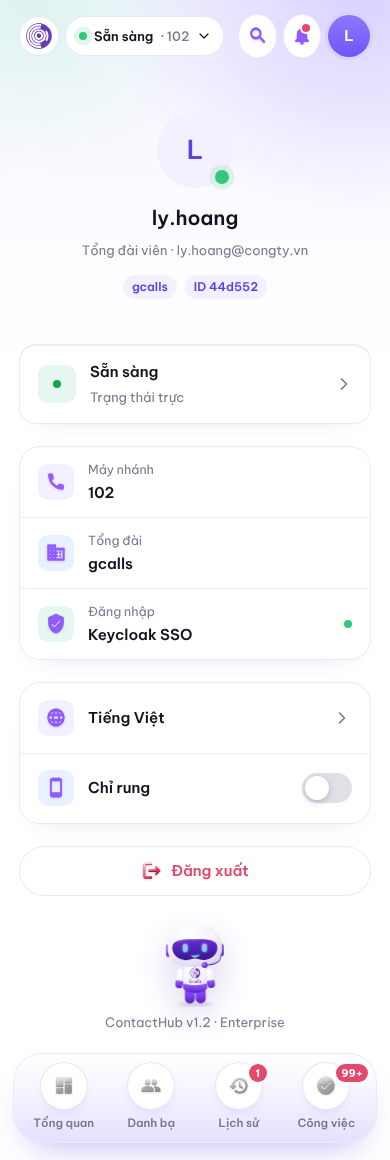
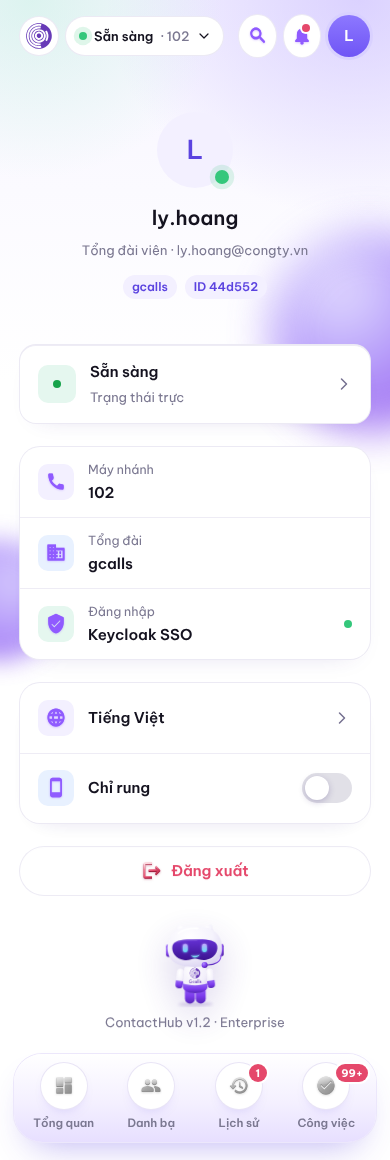
Bản sáng: thêm quả cầu tím phía sau, blur gấp 3 để tan thành gradient
Claude-Session: https://claude.ai/code/session_01UEoceJJYZjHjQck4sgHN5P

Changed region(s): [[0.6462, 0.1862, 1.0, 0.4034], [0.0, 0.4345, 0.0923, 0.5897]]

diff --git a/prototype/assets/contacthub.css b/prototype/assets/contacthub.css
@@ -979,7 +979,13 @@
   radial-gradient(70% 22% at 8% 0%,rgba(198,242,226,.55),transparent 70%),
   radial-gradient(90% 26% at 92% 0%,rgba(196,181,255,.55),transparent 72%),
   linear-gradient(180deg,#F7F5FF 0%,#fff 380px)}
-.app.lt .wall::before,.app.lt .wall::after,.app.lt .wall i{display:none!important}
+.app.lt .wall::before,.app.lt .wall::after,.app.lt .wall .b1,.app.lt .wall .b4,.app.lt .wall .b5{display:none!important}
+/* quả cầu tím phía sau, blur x3 để tan thành gradient */
+.app.lt .wall .b2,.app.lt .wall .b3{display:block!important;position:absolute;border-radius:50%!important;animation:none!important;transform:none!important;box-shadow:none!important;right:auto;bottom:auto}
+.app.lt .wall .b2{left:270px!important;top:230px!important;width:200px!important;height:200px!important;filter:blur(21px)!important;opacity:.75!important;
+  background:radial-gradient(circle at 35% 30%,#DDD6FE 0%,#A78BFA 35%,#7C3AED 75%,#6D28D9 100%)!important}
+.app.lt .wall .b3{left:-60px!important;top:540px!important;width:120px!important;height:120px!important;filter:blur(12px)!important;opacity:.7!important;
+  background:radial-gradient(circle at 60% 35%,#C4B5FD 0%,#8B5CF6 60%,#6D28D9 100%)!important}
 .app.lt .h1{font-weight:500;letter-spacing:-.03em}
 .app.lt .eyebrow{font-weight:400;color:var(--ink-2)}
 .app.lt .big{font-weight:600}
